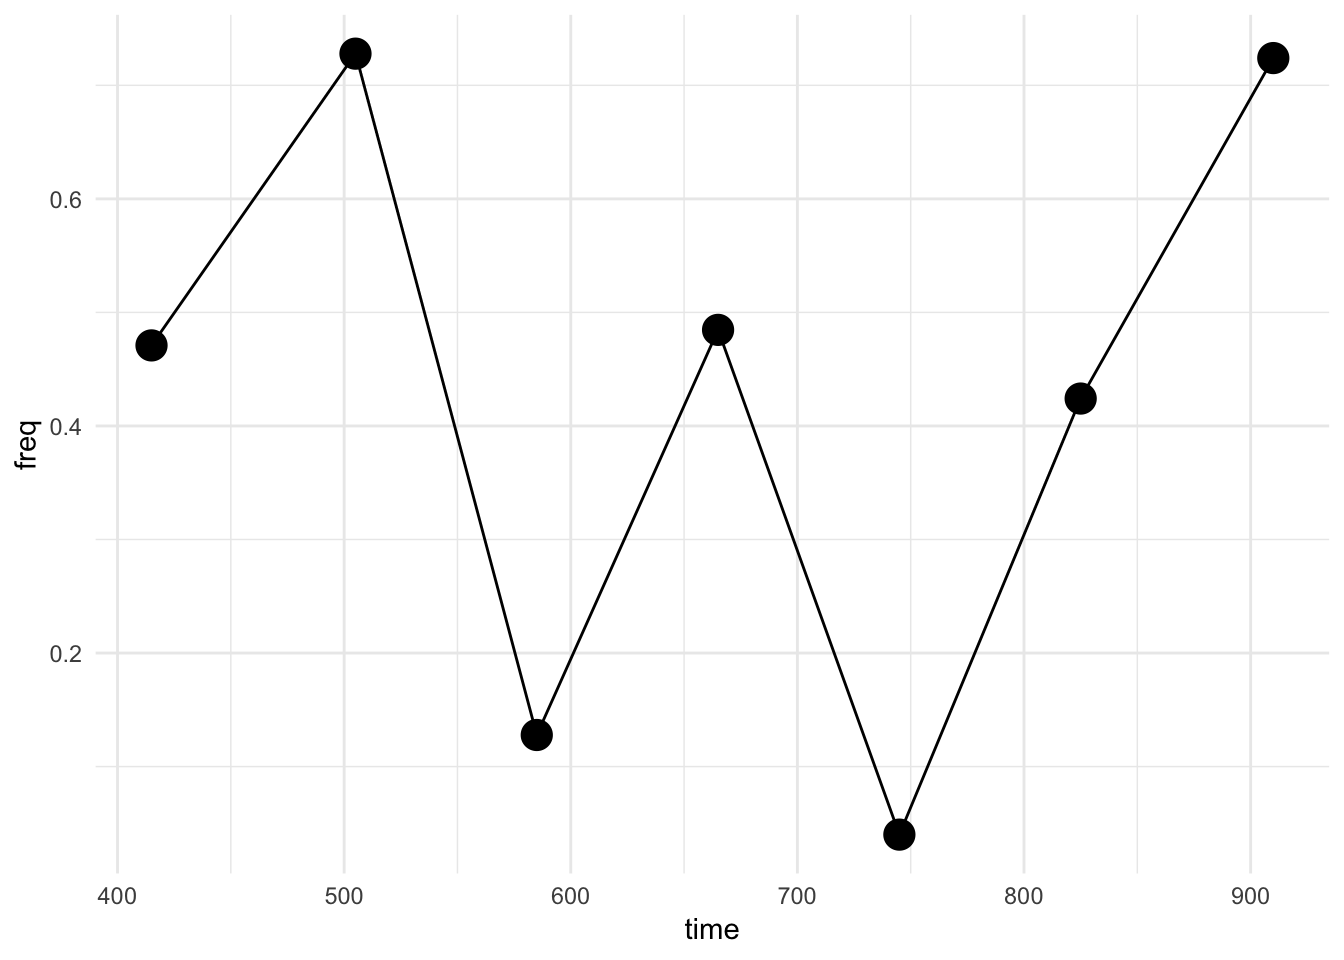
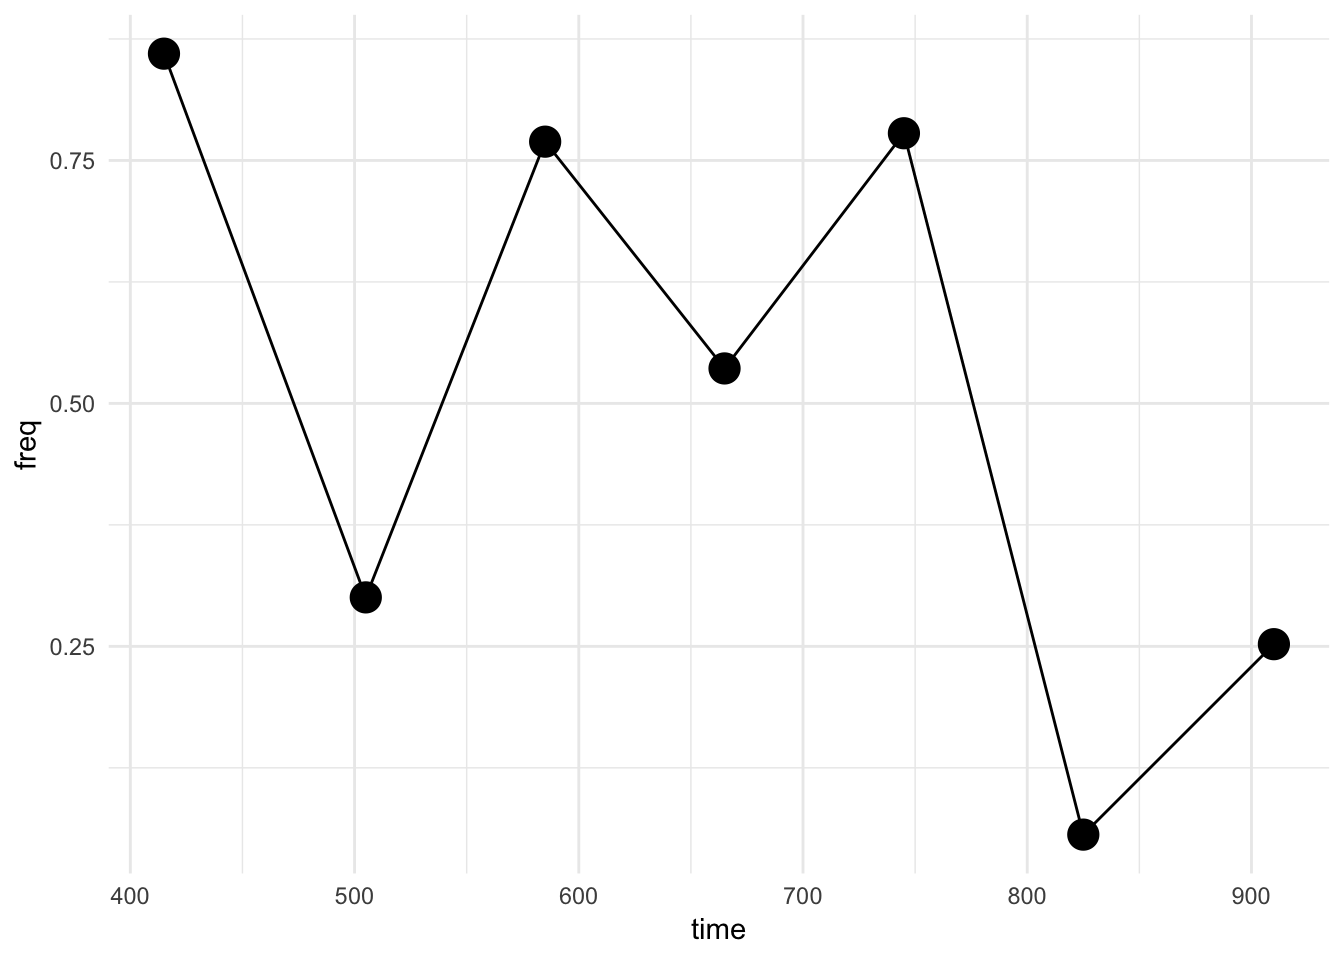
stash

diff --git a/README.md b/README.md
@@ -1,11 +1,11 @@
 
 <!-- README.md is generated from README.Rmd. Please edit that file -->
-signatselect: Identifying signatures of selection
-=================================================
+signatselect: Identifying signatures and strengths of selection
+===============================================================
 
 [![Travis build status](https://travis-ci.org/benmarwick/signatselect.svg?branch=master)](https://travis-ci.org/benmarwick/signatselect) [![Binder](http://mybinder.org/badge_logo.svg)](http://beta.mybinder.org/v2/gh/benmarwick/signatselect/master?urlpath=rstudio)
 
-The goal of signatselect is to provide two core functions useful for investigating change over time in artefact assemblages (and genetic time-series data):
+The goal of signatselect is to provide two functions useful for investigating change over time in artefact assemblages (and genetic time-series data):
 
 -   `fit()` the frequency increment test as simple statistical test to aid in the detection and quantification of selective processes in the archaeological record. This is adapted directly from Feder, A. F., Kryazhimskiy, S., & Plotkin, J. B. (2014). Identifying signatures of selection in genetic time series. *Genetics*, 196(2), 509-522. <https://doi.org/10.1534/genetics.113.158220>.
 
@@ -68,7 +68,6 @@ The result of the FIT, with the low p-value, indicates that selection is occurin
 How about the null situation, can we credibly detect a situation with no selection? Here's a random uniform distribution of a variant:
 
 ``` r
- 
   no_selection <- 
   tibble(time = c(415 , 505 , 585 , 665 , 745 , 825 , 910),
          freq = runif(7))
@@ -87,8 +86,8 @@ How about the null situation, can we credibly detect a situation with no selecti
       time = no_selection$time,
       v = no_selection$freq
     )
-#>    fit_stat     fit_p
-#> 1 0.6173547 0.5640275
+#>     fit_stat     fit_p
+#> 1 -0.5013516 0.6374128
 ```
 
 And we see a high p-value, indicating no selection in this time series.
@@ -102,8 +101,7 @@ Here is an example of `tsinfer()` to estimate the population size and the select
 -   `nvec` containes total number of samples at each time point (must be integers)
 
 ``` r
-  library(signatselect)
-  # adapted from https://github.com/skryazhi/tsinfer
+  # data adapted from https://github.com/skryazhi/tsinfer
   tvec = c(0, 10, 20)
   bvec = c(2000, 4000, 6000)
   nvec = c(10000, 10000, 10000)
